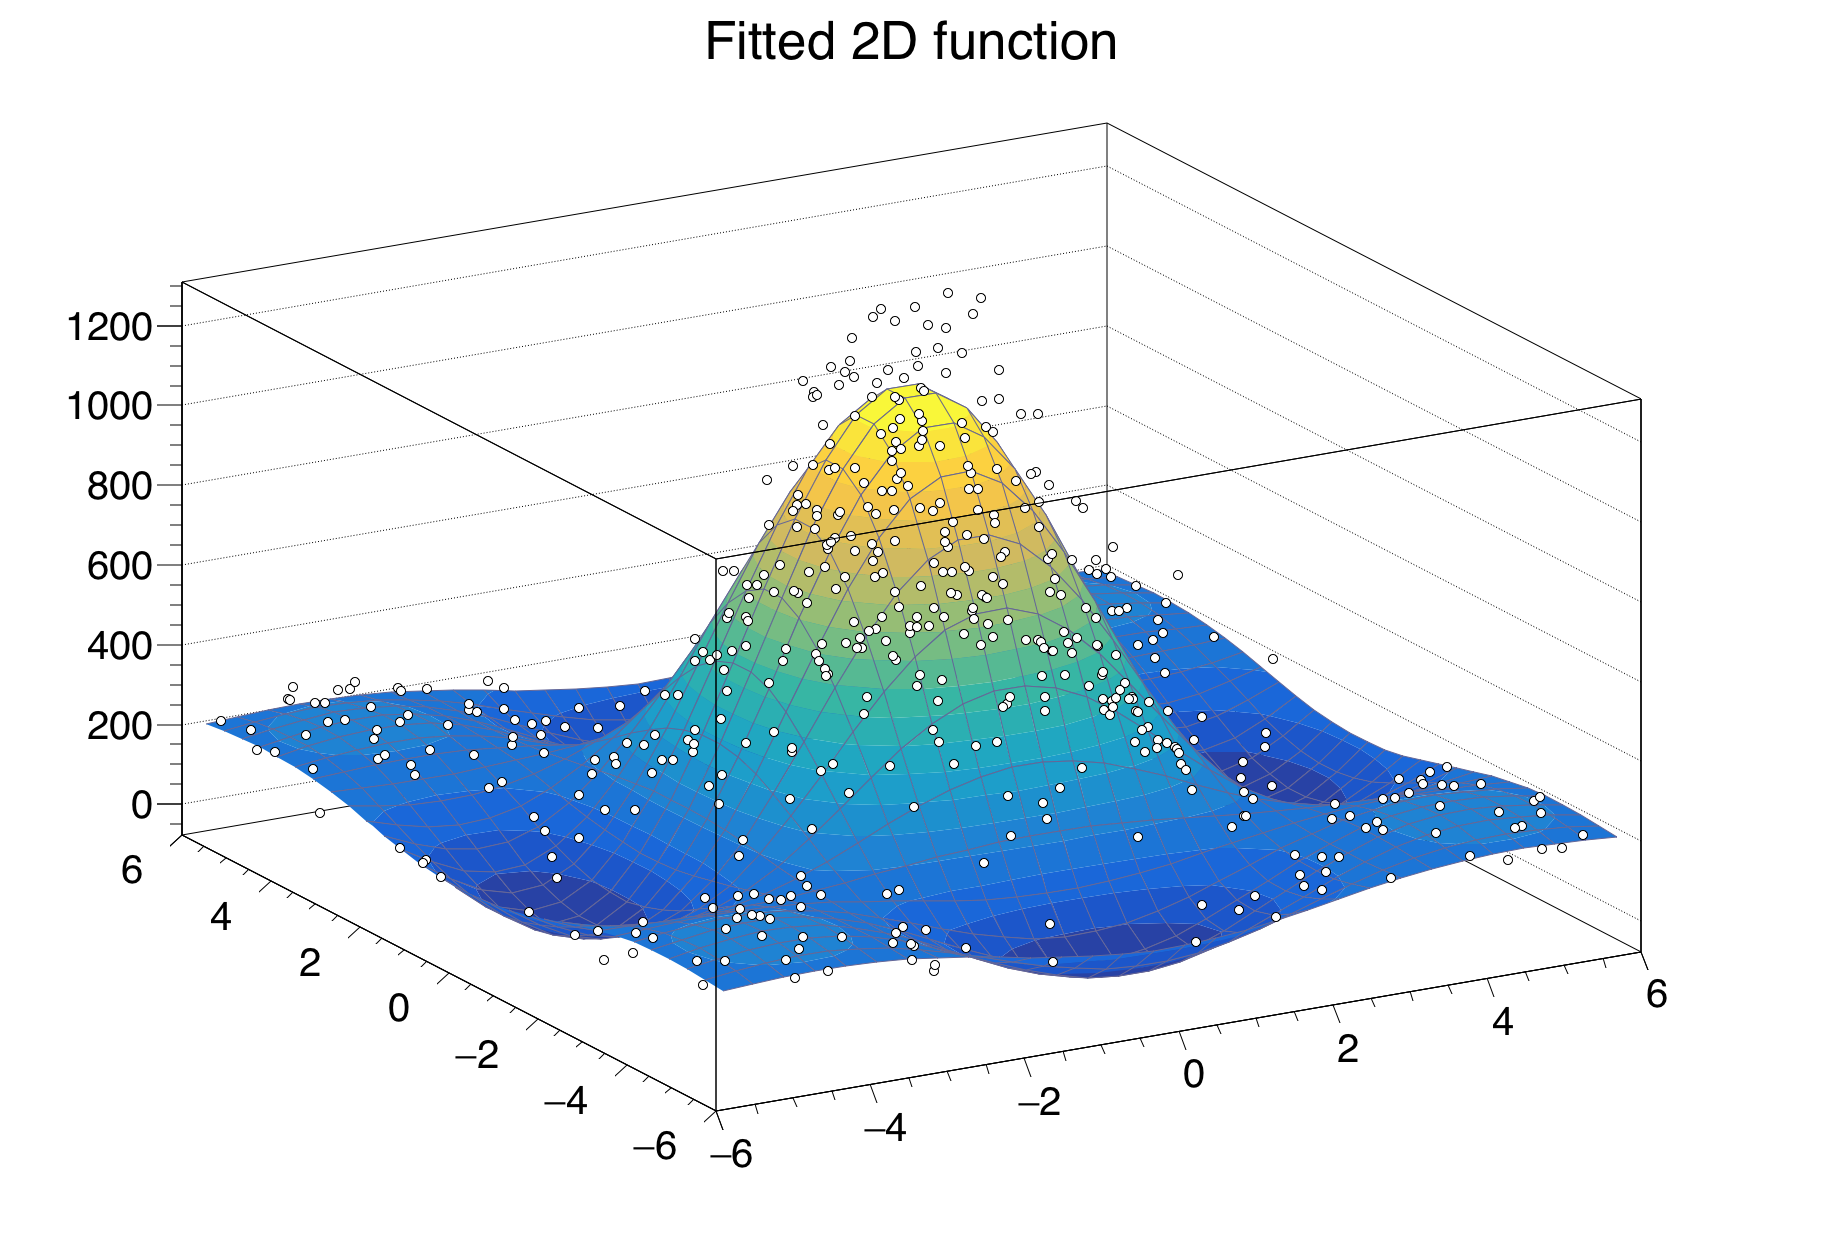
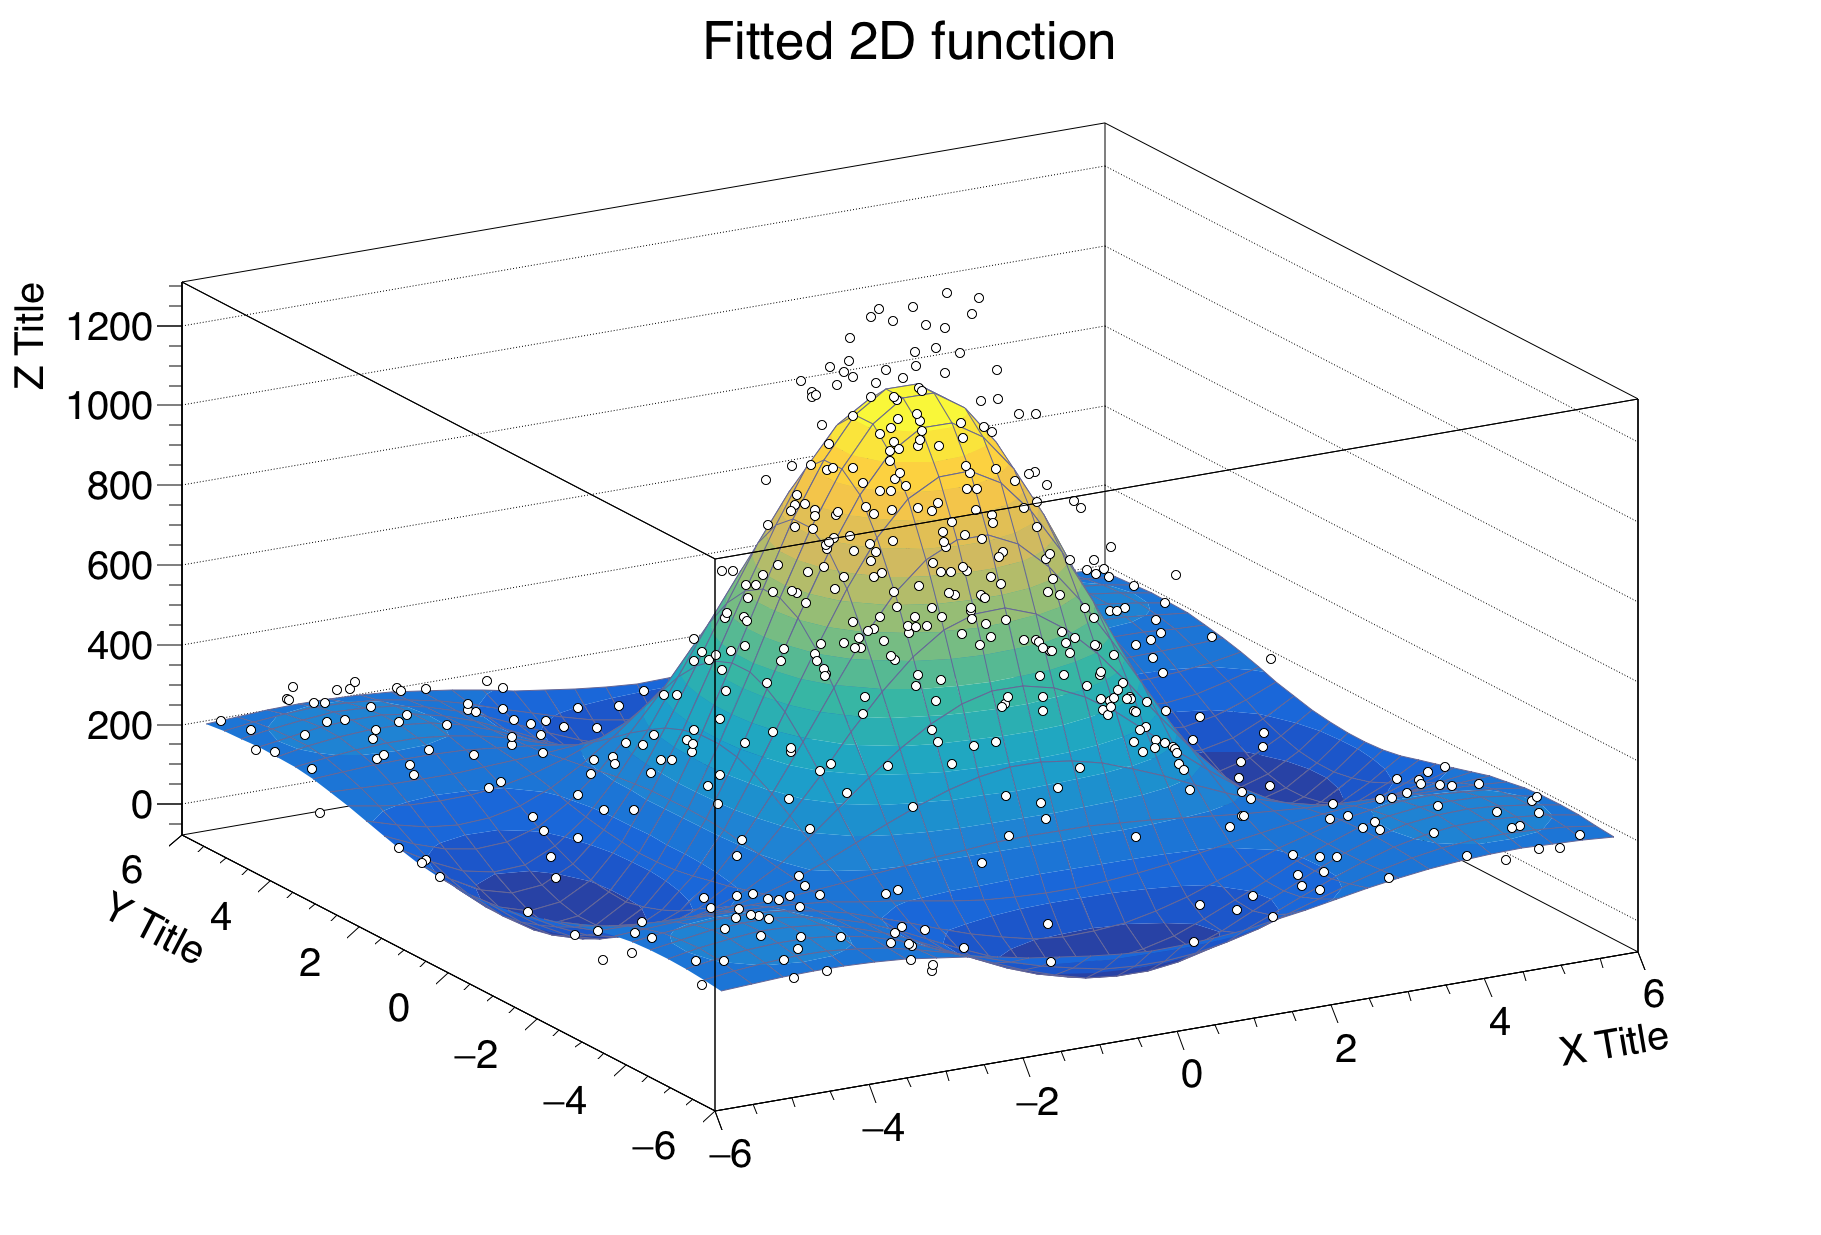
axis titles on figure 4.3

diff --git a/documentation/primer/macros/macro4.C b/documentation/primer/macros/macro4.C
@@ -31,7 +31,13 @@ void macro4(){
    auto c1 = new TCanvas();
    f2.SetLineWidth(1);
    f2.SetLineColor(kBlue-5);
-   f2.DrawClone("Surf1");
+   TF2   *f2c = (TF2*)f2.DrawClone("Surf1");
+   TAxis *Xaxis = f2c->GetXaxis();
+   TAxis *Yaxis = f2c->GetYaxis();
+   TAxis *Zaxis = f2c->GetZaxis();
+   Xaxis->SetTitle("X Title"); Xaxis->SetTitleOffset(1.5);
+   Yaxis->SetTitle("Y Title"); Yaxis->SetTitleOffset(1.5);
+   Zaxis->SetTitle("Z Title"); Zaxis->SetTitleOffset(1.5);
    dte.DrawClone("P0 Same");
    // Make the x and y projections
    auto c_p= new TCanvas("ProjCan",

diff --git a/documentation/primer/graphs.md b/documentation/primer/graphs.md
@@ -63,7 +63,7 @@ theoretical prediction.
 With ROOT you can profit from rather advanced plotting routines, like
 the ones implemented in the `TPolarGraph`, a class to draw graphs in
 polar coordinates. You can see the example macro in the following and the
-resulting Figure is [4.1](#f41):
+resulting Figure is [4.2](#f42):
 
 ``` {.cpp .numberLines}
 @ROOT_INCLUDE_FILE macros/macro3.C
@@ -72,10 +72,10 @@ resulting Figure is [4.1](#f41):
 A new element was added on line 4, the size of the canvas: it is
 sometimes optically better to show plots in specific canvas sizes.
 
-[f41]: figures/polar_graph.png "f41"
-<a name="f41"></a>
+[f42]: figures/polar_graph.png "f42"
+<a name="f42"></a>
 
-![The graph of a fan obtained with ROOT.\label{f41}][f41]
+![The graph of a fan obtained with ROOT.\label{f42}][f42]
 
 ## 2D Graphs ##
 
@@ -117,16 +117,20 @@ Let's go through the code, step by step to understand what is going on:
 
 -   Line *34*: The *Surf1* option draws the `TF2` objects (but also
     bi-dimensional histograms) as coloured surfaces with a wire-frame on
-    three-dimensional canvases. See Figure [4.2](#f42).
+    three-dimensional canvases. See Figure [4.3](#f43).
 
--   Line *37-43*: Here you learn how to create a canvas, partition it in
+-   Line *35-40*: Retrieve the axis pointer and define the axis titles.
+
+-   Line *41*: Draw the cloud of points on top of the coloured surface.
+
+-   Line *43-49*: Here you learn how to create a canvas, partition it in
     two sub-pads and access them. It is very handy to show multiple
     plots in the same window or image.
 
-[f42]: figures/fitted2dFunction.png "f42"
-<a name="f42"></a>
+[f43]: figures/fitted2dFunction.png "f43"
+<a name="f43"></a>
 
 ![A dataset fitted with a bidimensional function visualised as a colored
-surface.\label{f42}][f42]
+surface.\label{f43}][f43]
 
 [^3] https://root.cern.ch/drupal/content/rainbow-color-map
